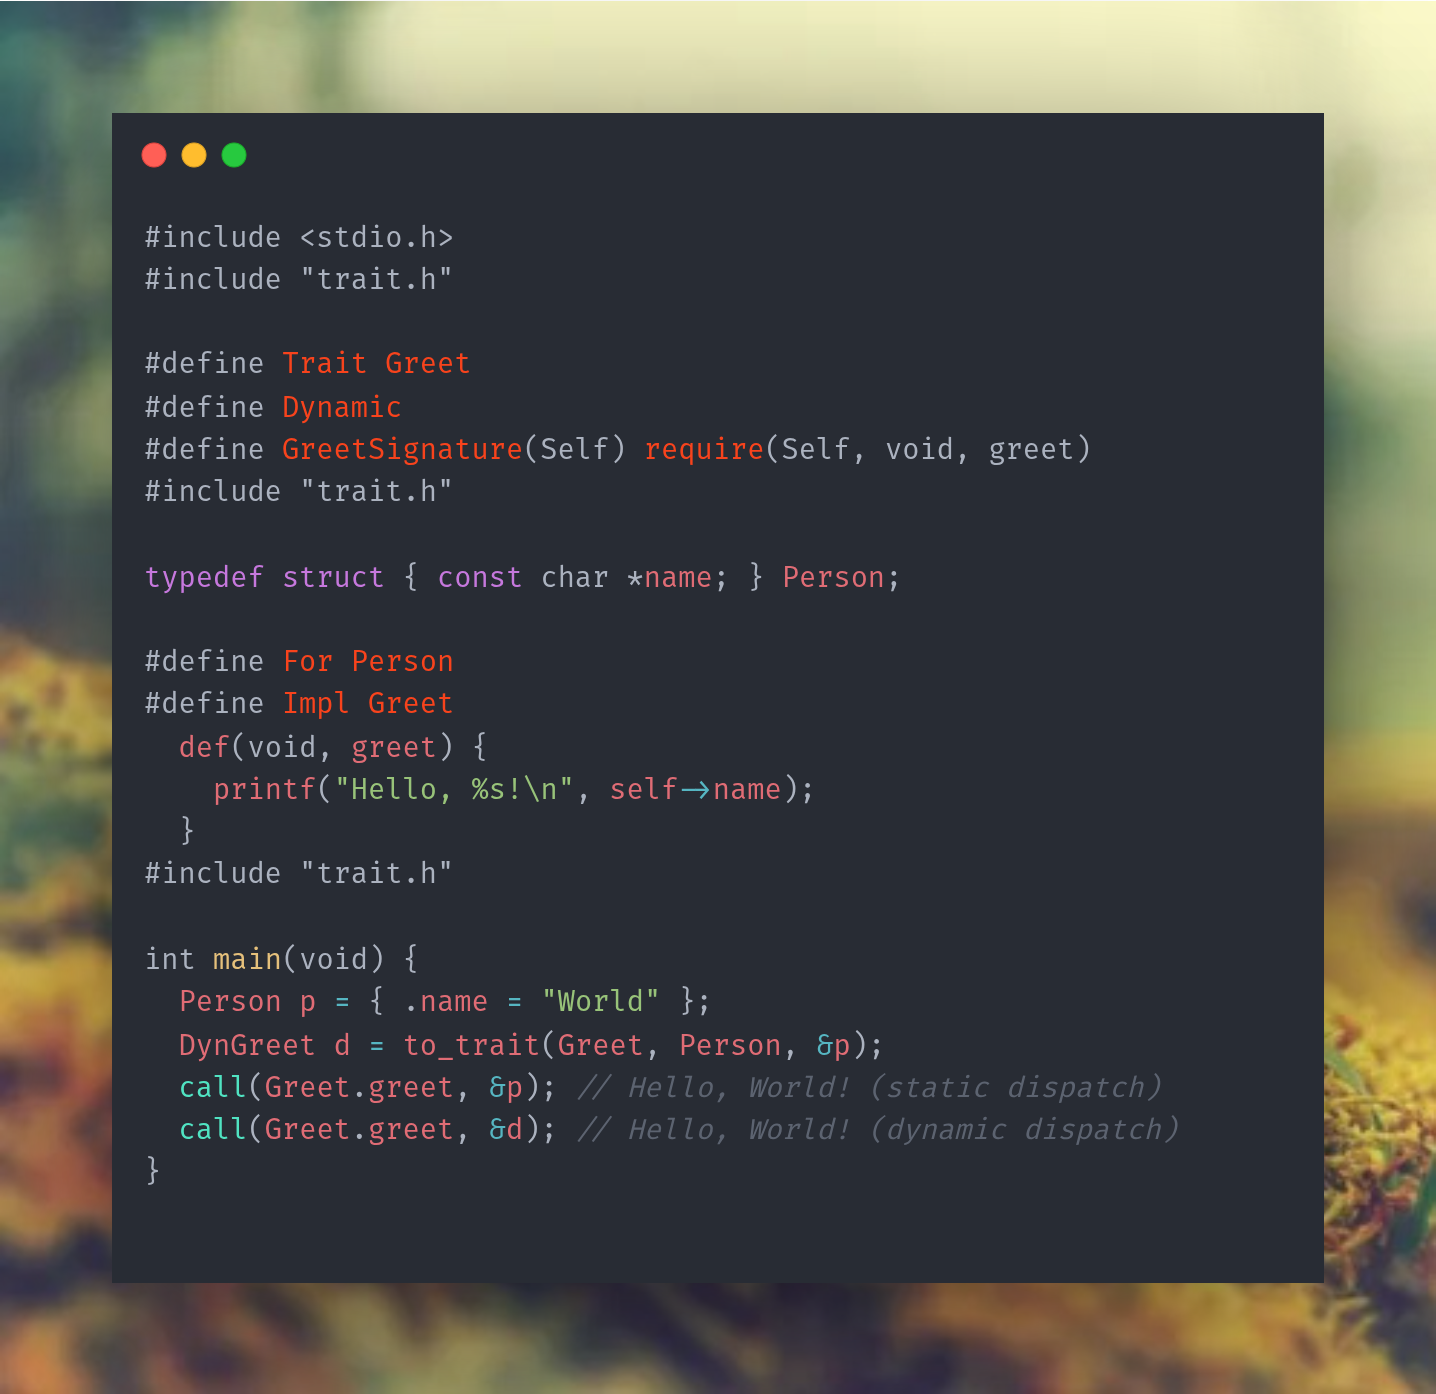
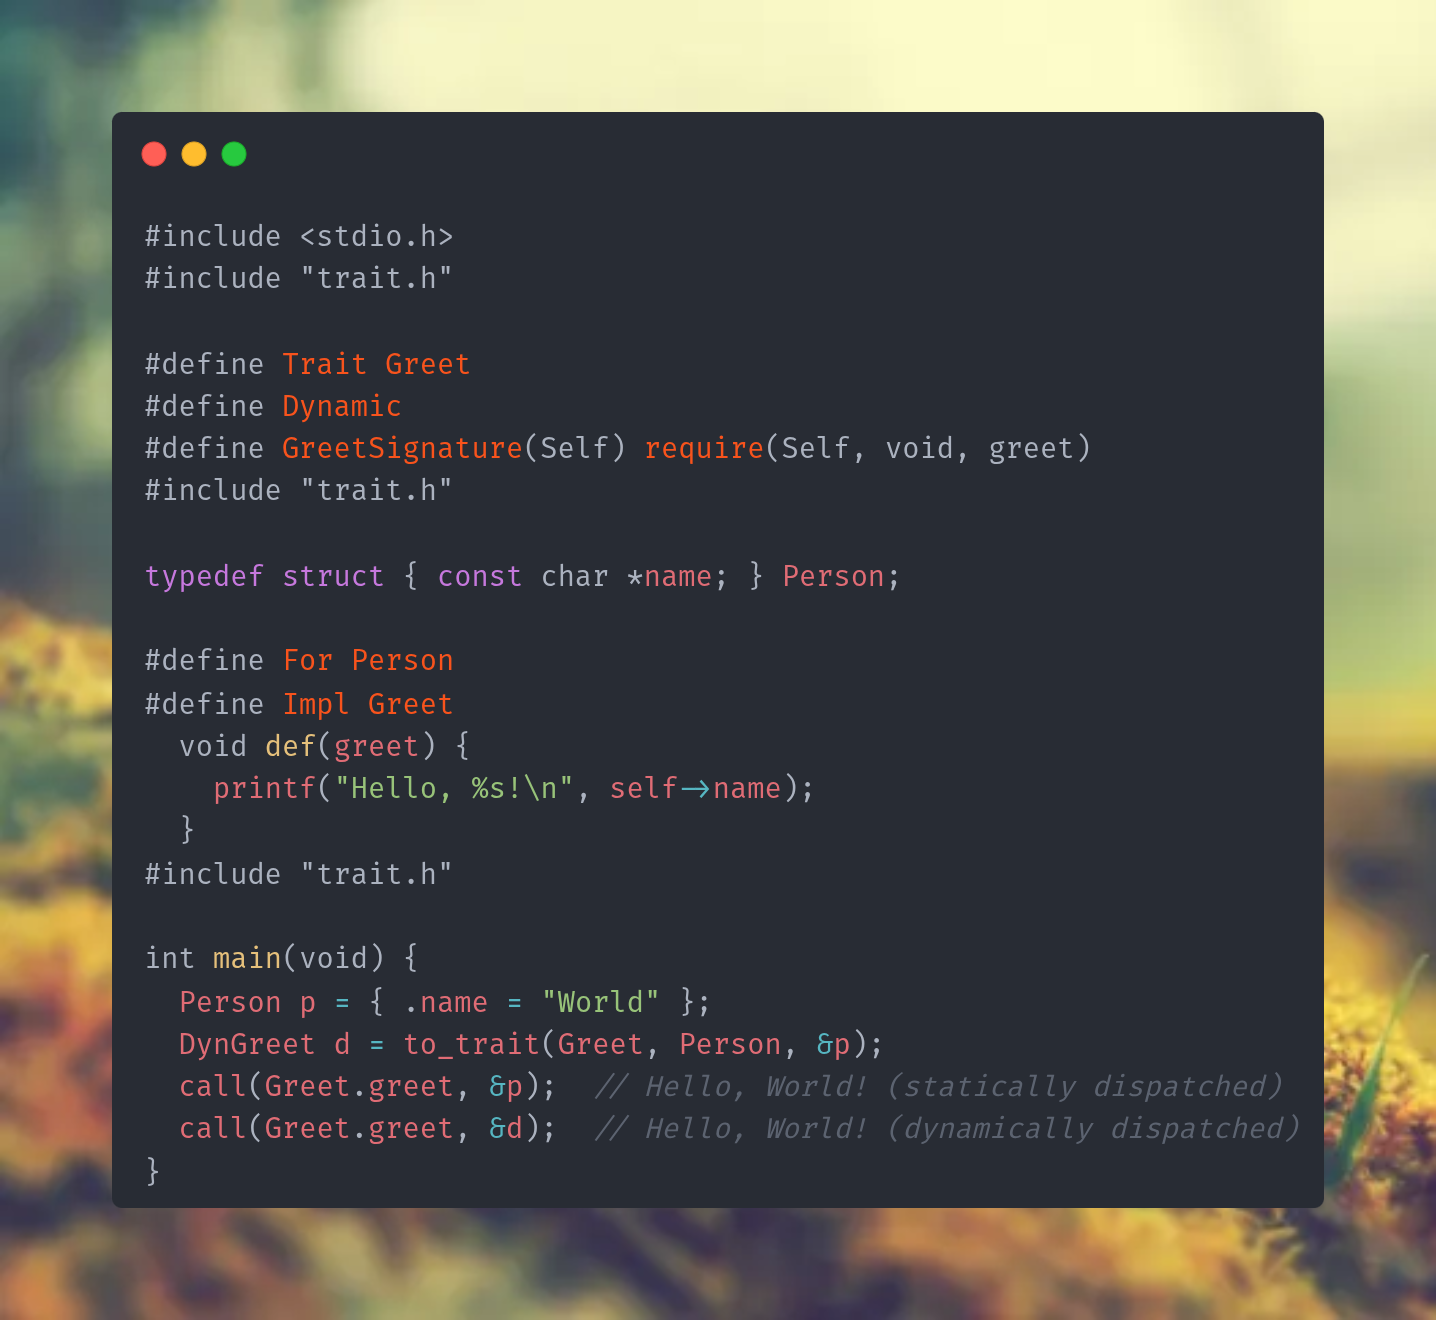
updated screenshot

diff --git a/README.md b/README.md
@@ -40,6 +40,7 @@ Copies `trait.h` to `~/.local/include/trait.h`.
 #include "trait.h"
 
 #define Trait Greet
+#define Dynamic
 #define GreetSignature(Self) require(Self, void, greet)
 #include "trait.h"
 
@@ -54,7 +55,9 @@ typedef struct { const char *name; } Person;
 
 int main(void) {
   Person p = { .name = "World" };
-  call(Greet.greet, &p);  // Hello, World!
+  DynGreet d = to_trait(Greet, Person, &p);
+  call(Greet.greet, &p);  // Hello, World! (statically dispatched)
+  call(Greet.greet, &d);  // Hello, World! (dynamically dispatched)
 }
 ```
 